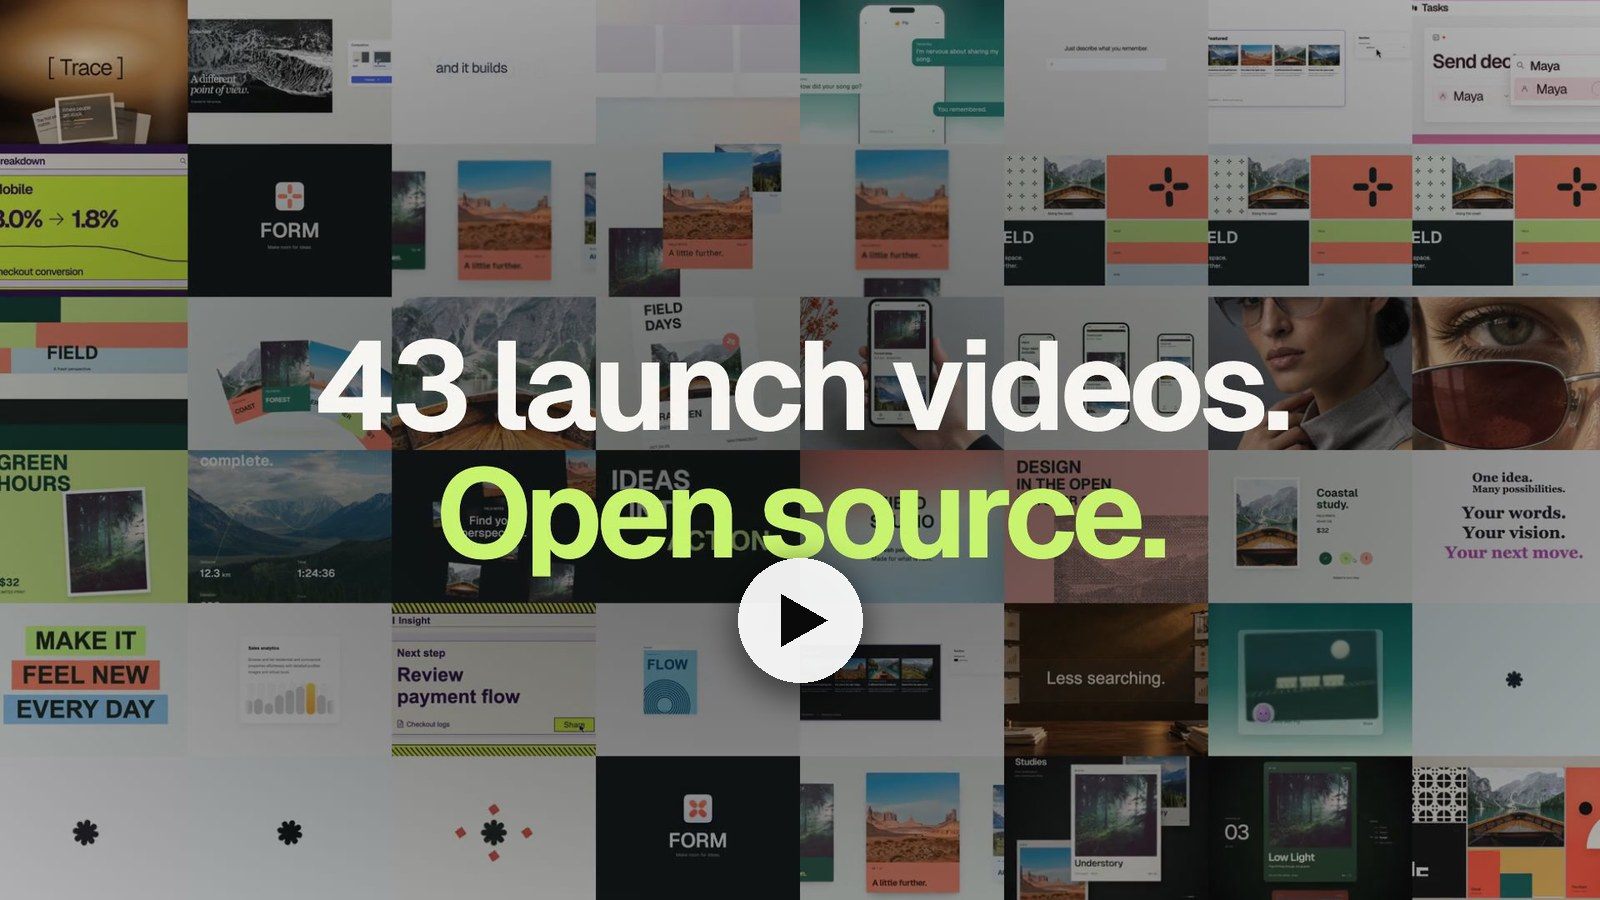
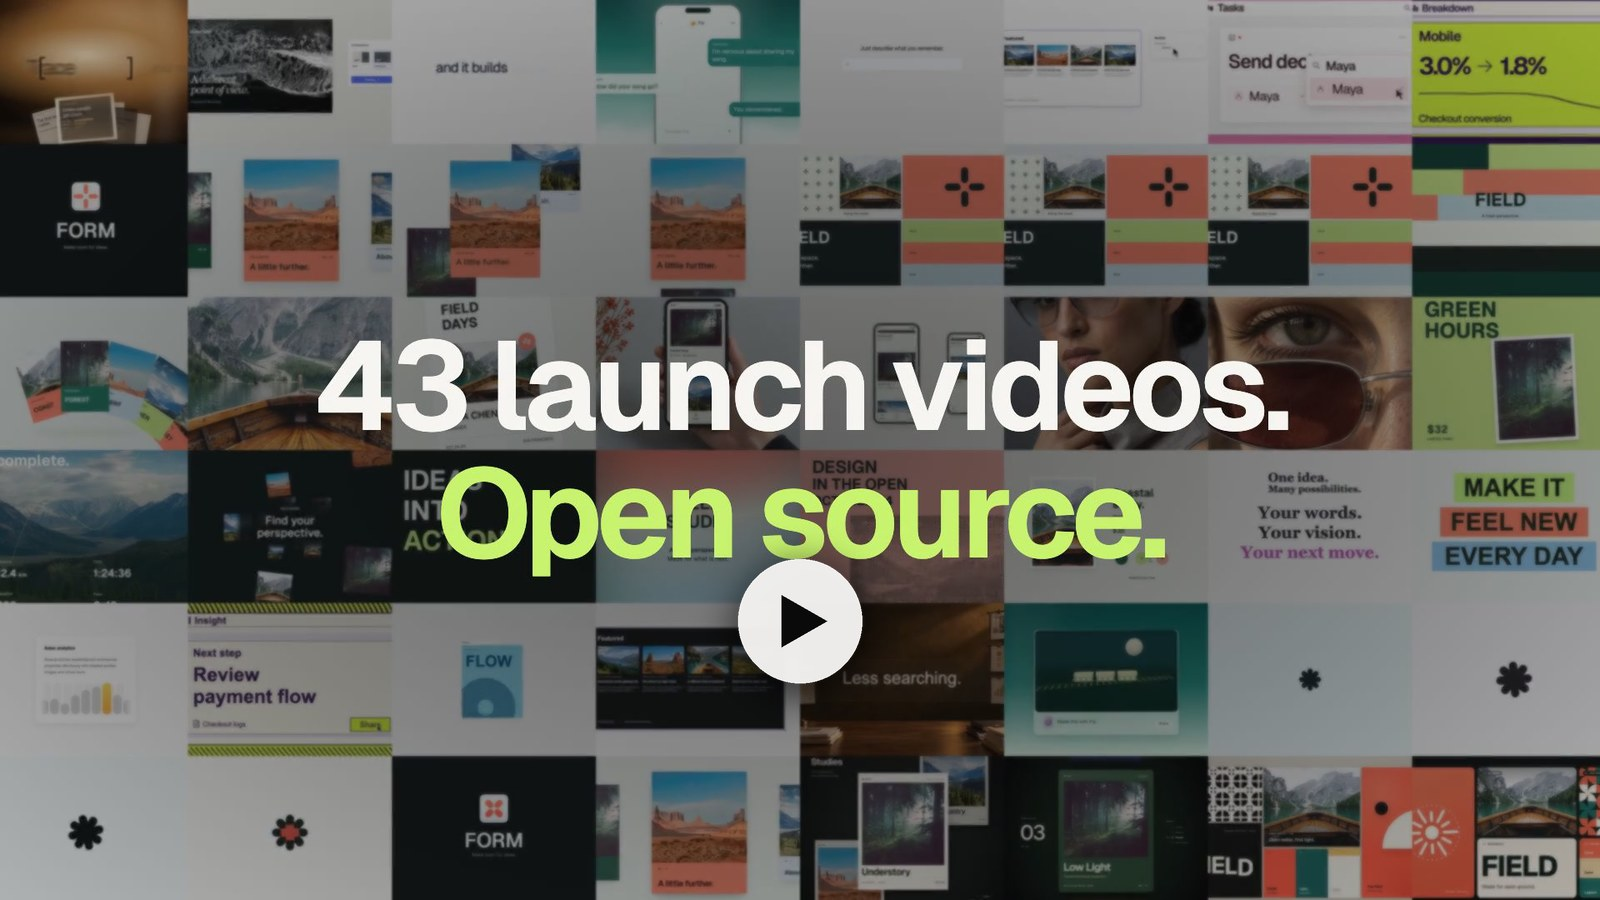
docs: open the README with a real session demo and the Opus Labs-only launch film
- demo.gif: a real Claude Code session with the plugin turns one sentence into an
  Opus Labs logo reveal in 16:9, 1:1 and 9:16, and it opens on the finished formats
- launch film r3 (Opus Labs branding only) with a new poster
- banner: brighter template cards, and the tags no longer overlap them
- a tighter note on cost and access; maintainer notes move into the collapsed section

diff --git a/README.md b/README.md
@@ -20,8 +20,13 @@ and renders it on your machine. Voiceover, music, images and AI video clips come
 Opus Video Tools connection.
 
 <p align="center">
-  <a href="https://opus-lab.cdn.opuslab.ai/labs/launch-videos/opus-5.5/v1/launch-film/r2/launch-film-16x9.mp4"><img src=".github/assets/launch-film-poster.jpg" alt="Watch the 45-second launch film" width="100%"></a><br>
-  <sub><b>The launch film</b>, 45 seconds. Claude Opus 5.5 made it with this plugin: every clip comes from this repository. · <a href="https://opus-lab.cdn.opuslab.ai/labs/launch-videos/opus-5.5/v1/launch-film/r2/launch-film-9x16.mp4">Vertical cut</a></sub>
+  <img src=".github/assets/demo.gif" alt="A Claude Code session with Opus Video Studio: one sentence asks for an Opus Labs logo reveal in three formats, the agent downloads and verifies the template, adapts it, and renders 16:9, 1:1 and 9:16 versions" width="100%"><br>
+  <sub>A real Claude Code session with the plugin, sped up. One sentence in, three formats out: 11 minutes, rendered locally, no paid media.</sub>
+</p>
+
+<p align="center">
+  <a href="https://opus-lab.cdn.opuslab.ai/labs/launch-videos/opus-5.5/v1/launch-film/r3/launch-film-16x9.mp4"><img src=".github/assets/launch-film-poster.jpg" alt="Watch the 45-second launch film" width="72%"></a><br>
+  <sub><b>Watch the launch film</b> (45 s). Claude Opus 5.5 made it with this plugin, and every clip in it comes from this repository. · <a href="https://opus-lab.cdn.opuslab.ai/labs/launch-videos/opus-5.5/v1/launch-film/r3/launch-film-9x16.mp4">Vertical cut</a></sub>
 </p>
 
 ## Quick start
@@ -155,28 +160,13 @@ cd remakes/opus-5.5/pf-brand-clover/project && npm ci && npm run studio
 | **Opus Video Tools MCP** | The managed `opus-video-tools` connection at `https://labs.opus.pro/opus-video-tools/mcp`. |
 | **Local Remotion** | Pinned local Remotion dependencies, a setup helper, and an editable starter composition. |
 
-Video Director planning and the complete timed script apply to managed video clips. Local
-animation and code-generated video use the chosen framework; standalone media calls review the
-requested text, audio brief, or image prompt without a video storyboard. Paid generation still
-requires approval of the exact request. The plugin
-tracks asynchronous jobs and reuses request keys for identical retries. It contains no provider
-credentials or backend service implementation.
-
-The repository is public; managed generation still requires an authorized Opus account,
-product access, and sufficient credits. Installing the plugin does not grant service access.
-Local Remotion setup and preview do not spend Opus generation credits.
-
-## Install guides
-
-- [Codex installation guide](docs/codex-install-protocol.md)
-- [Claude Code installation guide](docs/claude-code-install-protocol.md)
-- [Publishing and verifying the shared website guides](docs/guide-publication.md)
-
-The Product Videos website currently offers Codex onboarding. The plugin keeps
-both client distributions and shares its source-template and media workflows.
+**What it costs.** Templates, local rendering and preview are free and need no Opus account. Generated voiceover,
+music, images and AI video need an authorized Opus account, product access and credits; installing the plugin does
+not grant service access. Your agent shows you the exact request before it spends anything, tracks asynchronous jobs,
+and reuses request keys for identical retries. The plugin contains no provider credentials or backend code.
 
 <details>
-<summary><b>For maintainers</b>: names and validation</summary>
+<summary><b>For maintainers</b>: names, website guides and validation</summary>
 
 ### Names
 
@@ -189,6 +179,11 @@ both client distributions and shares its source-template and media workflows.
 
 The installation ID is stable so existing clients can upgrade. Repository names, plugin IDs,
 display names, and OAuth resource addresses are separate settings.
+
+### Website guides
+
+The Product Videos website currently offers Codex onboarding. Both client distributions share one set of
+template-source and media workflows; see [publishing and verifying the shared website guides](docs/guide-publication.md).
 
 ### Validate
 
